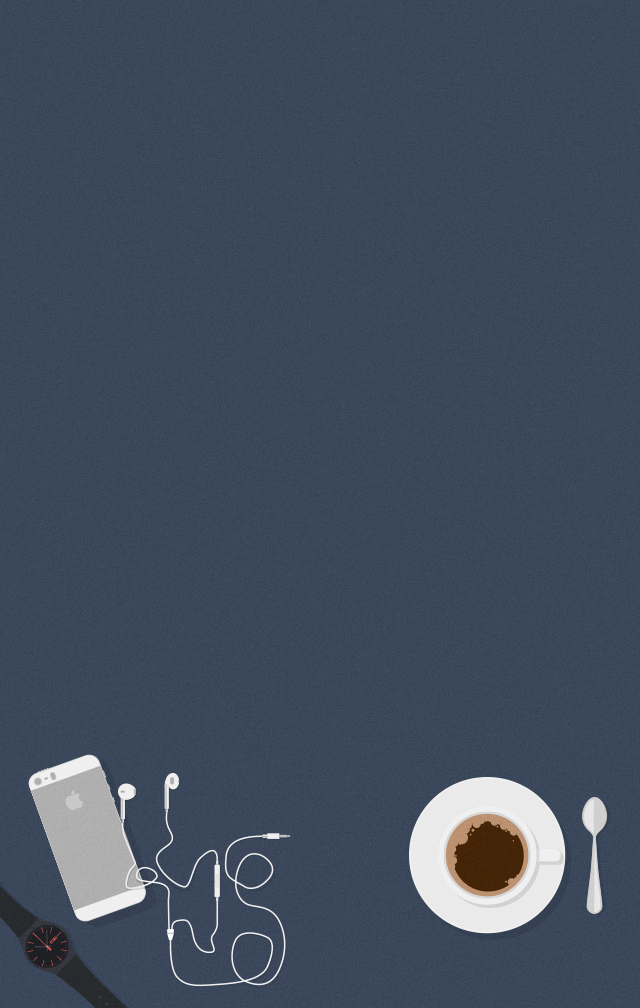
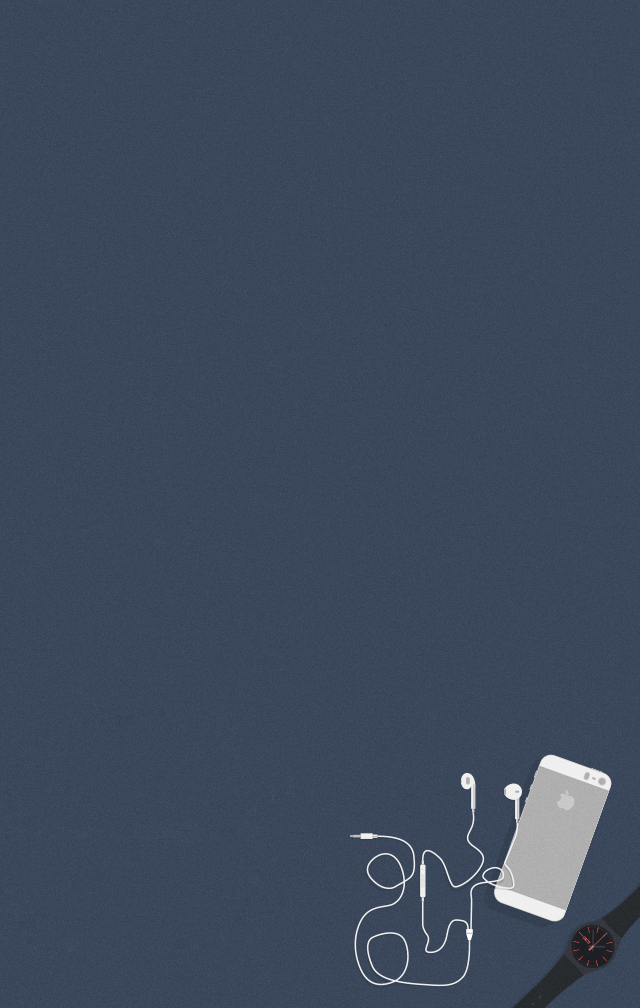
fix by lin.li

diff --git a/hr/index.html b/hr/index.html
@@ -10,9 +10,6 @@
   <link rel="stylesheet" href="../css/reveal.css">
   <link rel="stylesheet" href="../css/theme/black.css" id="theme">
   <link rel="stylesheet" href="css/genee.css" id="theme">
-  <!--[if lt IE 9]>
-    <script src="../lib/js/html5shiv.js"></script>
-  <![endif]-->
 </head>
 
 <body>
@@ -21,7 +18,7 @@
   <div class="slides">
     <section>
 
-      <section data-background="img/computer.png">
+      <section data-background="img/computer.png" style="margin-top:35%;">
         <img src="img/genee.png" width="50%">
         <h1>基理科技</h1>
         <h3>GENEE GROUP</h3>
@@ -29,35 +26,35 @@
 
       <section data-background="img/phone.png">
         <h2>公司简介</h2>
-        <p style="text-align:left">成立于 2007 年，总部位于北方金融中心天津，是国内领先的智能科研管理平台提供商。</p>
-        <p style="text-align:left">在科研管理领域拥有最先进的技术和最完整的产品线，通过多系列<span id="transmark"></span>软件及智能硬件产品满足全球不同高校、科研院所、研发型企业的差异化需求，让全世界用户享受更简单、便捷的科研管理环境。</p>
+        <p style="text-align:left">基理科技成立于2007年，总部位于北方金融中心天津，是国内领先的智能科研管理平台提供商。</p>
+        <p style="text-align:left">在科研管理领域拥有最先进的技术和最完整的产品线，通过多系列软件及智能硬件产品满足全球不同高校、科研院所、研发型企业的差异化需求，让全世界用户享受更简单、便捷的科研管理环境。</p>
       </section>
     
       <section data-background="img/phone.png">
         <h2 style="margin-bottom:1em">我们的产品</h2>
-        <div style="margin-bottom:1em;position:relative">
-          <img src="img/lims.png" width="64px" style="float:left;margin-top:-10px">
+        <div>
+          <img src="img/lims.png" width="54px" style="float:left; margin-top:-3px">
           <div style="margin-left:80px">
             <h3>LIMS</h3>
             <h4>科研实验室ERP</h4>
           </div>
         </div>
-        <div style="margin-bottom:1em;position:relative">
-          <img src="img/cf.png" width="64px" style="float:left;margin-top:-10px">
+        <div>
+          <img src="img/cf.png" width="54px" style="float:left; margin-top:-4px">
           <div style="margin-left:80px">
             <h3>LIMS-CF</h3>
             <h4>大型仪器共享管理</h4>
           </div>
         </div>
-        <div style="margin-bottom:1em;position:relative">
-          <img src="img/billing.png" width="64px" style="float:left;margin-top:-10px">
+        <div>
+          <img src="img/billing.png" width="54px" style="float:left; margin-top:-2px">
           <div style="margin-left:80px">
             <h3>Billing</h3>
             <h4>实验室快捷支付系统</h4>
           </div>
         </div>
-        <div style="margin-bottom:1em;position:relative">
-          <img src="img/mall.png" width="64px" style="float:left;margin-top:-10px">
+        <div>
+          <img src="img/mall.png" width="54px" style="float:left; margin-top:-2px">
           <div style="margin-left:80px">
             <h3>Mall</h3>
             <h4>科研采购平台</h4>
@@ -67,24 +64,30 @@
     
       <section data-background="img/phone.png">
         <h2 style="margin-bottom:1em">我们用到的技术</h2>
+          <p style="text-align:left; margin-top:10px">我们崇尚自管理, 扁平化；<br/>破除依赖, 努力打造完美产品。</p>
           <img src="img/php.png" width="100px" style="float:left; margin-right:10px;">
           <img src="img/nodejs.png" width="100px" style="float:left; margin-right:10px;">
           <img src="img/zeromq.png" width="100px" style="float:left;">
           <img src="img/redis.png" width="100px" style="float:left; margin-right:10px;">
           <img src="img/github.png" width="100px" style="float:left; margin-right:10px;">
           <img src="img/docker.png" width="100px" style="float:left;">
-        <p style="text-align:left">我们崇尚自管理, 扁平化<br/>破除依赖, 努力打造完美产品</p>
       </section>
     
       <section data-background="img/phone.png">
         <h2 style="margin-bottom:1em">我们在寻找“牛人”</h2>
-        <div style="position:relative;height:480px">
+        <ul class="value">
+          <li><h3>Curious</h3> 强烈的求知欲望</li>
+          <li><h3>Reliable</h3> 勇于担当责任</li>
+          <li><h3>Open-minded</h3> 虚心接纳他人意见定</li>
+          <li><h3>Communicative</h3> 良好的沟通能力</li>
+        </ul>
+        <!--<div style="position:relative;height:480px">
           <img src="img/p1.png" class="avatar" style="top:0;left:28%">
           <img src="img/p2.png" class="avatar" style="top:20%;left:0">
           <img src="img/p3.png" class="avatar" style="bottom:30%;left:20%">
           <img src="img/p4.png" class="avatar" style="top:18%;right:0">
           <img src="img/p5.png" class="avatar" style="bottom:34%;right:5%">
-        </div>
+        </div>-->
       </section>
     
       <section data-background="img/notebook.png" >
@@ -92,15 +95,12 @@
           <h3>Web开发工程师</h3>
           <p class="text-muted">我们期望您：</p>
           <ol>
-            <li>热爱编程，掌握前沿编程技术;</li>
             <li>掌握至少两门Web开发相关语言 (PHP/Java/JS优先);</li>
             <li>有Web应用设计, 架构和性能调优的相关经验;</li>
-            <li>有和非开发人员进行沟通协作的能力;</li>
-            <li>理性对待任何技术决定，能够通过量化和客观的数据对不合理问题进行反驳并提出改进方案;</li>
-            <li>充分了解坚持和固执的区别;</li>
+            <li>能够通过量化和客观的数据对不合理问题进行反驳并提出改进方案;</li>
             <li>有持续集成经验者优先;</li>
             <li>有GitHub开发经验者优先;</li>
-            <li>有DevOps相关经验者优先;</li>
+            <li>有DevOps相关经验者优先。</li>
           </ol>
         </div>
       </section>
@@ -110,15 +110,12 @@
           <h3>系统开发工程师</h3>
           <p class="text-muted">我们期望您：</p>
           <ol>
-            <li>热爱编程，掌握前沿编程技术;</li>
             <li>掌握至少两门Web开发相关语言 (C++/Python/JS优先);</li>
             <li>有Linux系统配置, 架构和性能调优的相关经验;</li>
-            <li>有和非开发人员进行沟通协作的能力;</li>
-            <li>理性对待任何技术决定，能够通过量化和客观的数据对不合理问题进行反驳并提出改进方案;</li>
-            <li>充分了解坚持和固执的区别;</li>
+            <li>能够通过量化和客观的数据对不合理问题进行反驳并提出改进方案;</li>
             <li>有持续集成经验者优先;</li>
             <li>有GitHub开发经验者优先;</li>
-            <li>有DevOps相关经验者优先;</li>
+            <li>有DevOps相关经验者优先。</li>
           </ol>
         </div>
       </section>
@@ -136,7 +133,6 @@
           <p class="text-muted">我们期望您：</p>
           <ol>
             <li>理科硕士以上学历，生命科学、化学、药学等实验学科背景优先；</li>
-            <li>极强的沟通与协调能力；</li>
             <li>热爱互联网产品，具有互联网产品开发经验优先；</li>
             <li>对互联网技术有深入了解。</li>
           </ol>
@@ -150,7 +146,6 @@
             <li>具备财务、进销存、物流、CRM、ERP等系统开发或实施经验；</li>
             <li>熟悉Windows、Linux、Mac 等操作系统的安装部署；</li>
             <li>具备服务器和网络软硬件配置能力；</li>
-            <li>具备比较全面的技术专业知识，熟悉当前IT行业的技术发展方向；</li>
             <li>有产品、项目的技术支持，售后服务及团队管理经验；</li>
             <li>具有较强的团队凝聚力，领导能力及协调能力。</li>
           </ol>
@@ -162,11 +157,10 @@
           <h3>管理培训生</h3>
           <p style="margin-bottom:5px;">您需要参加公司统一培训，然后在相关部门进行轮岗训练，参与该岗位的实际工作。</p>
           <ol>
-            <li>学习能力强，勤奋踏实，吃苦耐劳，具有高度的责任心和执行能力；</li>
-            <li>良好的沟通和表达能力，具有良好的团队合作精神；</li>
-            <li>较强应变能力，自信心强，能承受工作压力，自我推动力强。</li>
             <li>优秀应届毕业生优先考虑；</li>
             <li>计算机类、生物类、销售类专业优先选择；</li>
+            <li>较强应变能力，自信心强，能承受工作压力，自我推动力强；</li>
+            <li>学习能力强，勤奋踏实，吃苦耐劳，具有高度的责任心和执行能力。</li>
           </ol>
         </div>
       </section>
@@ -174,7 +168,7 @@
       <section data-background="img/camera.png" >
         <h2 style="margin-bottom:1em">您将在这里工作</h2>
         <div class="wall">
-          <img src="img/workhere1.jpg">
+          <img style="width:340px;" src="img/workhere1.jpg">
           <img src="img/workhere2.jpg">
           <img src="img/workhere3.jpg"> 
           <img src="img/workhere4.jpg">
@@ -186,14 +180,14 @@
       <section data-background="img/camera.png">
         <h2 style="margin-bottom:1em">您未来的伙伴</h2>
         <div class="wall">
-          <img src="img/colleague1.jpg">
+          <img style="width:320px;" src="img/colleague1.jpg">
           <img src="img/colleague2.jpg">
           <img src="img/colleague3.jpg">
           <img src="img/colleague4.jpg">
         </div>
       </section>
 
-      <section data-background="img/camera.png">
+      <section data-background="img/coffee.png">
         <h2>公司福利</h2>
         <ul class="benefit-tags">
           <li class="red-tag">极具竞争力的薪酬</li>
@@ -209,10 +203,10 @@
         </ul>
       </section>
       
-      <section data-background="img/camera.png">
+      <section data-background="img/coffee.png" style="margin-top:40%;">
         <h2>联系方式</h2>
         <ul>
-          <li>电话: <a href="callto:022-83719730">022-83719730</a></li>
+          <li>电话: <a href="callto:4006943633">400-694-3633</a></li>
           <li>邮箱: <a href="hr@geneegroup.com">hr@geneegroup.com</a></li>
           <li>地址: <span>天津市南开区白堤路268号农科大厦4层</span></li>
         </ul>
@@ -235,7 +229,7 @@ Reveal.initialize({
   controls: false,
   progress: false,
   history: false,
-  center: true,
+  center: false,
   touch: true,
   mouseWheel: true,
   

diff --git a/hr/css/genee.css b/hr/css/genee.css
@@ -15,7 +15,8 @@ body {
 ::selection {
   color: #fff;
   background: #bee4fd;
-  text-shadow: none; }
+  text-shadow: none;
+}
 
 .reveal .slides > section, .reveal .slides > section > section {
   line-height: 1.3;
@@ -49,6 +50,7 @@ body {
   font-size: 1.6em; 
   border-bottom:2px solid #bbb;
   padding-bottom:10px;
+  padding-top:20px;
 }
 
 .reveal h3 {
@@ -58,8 +60,8 @@ body {
 }
 
 .reveal h4 {
-  font-size: 1em; 
-  letter-spacing:1px;
+  font-size: .8em; 
+  letter-spacing:3px;
   font-weight:normal;
 }
 
@@ -70,9 +72,10 @@ body {
  * OTHER
  *********************************************/
 .reveal p {
+  color:#eff6fc;
   margin: 20px 0;
   font-size: .8em; 
-  line-height: 1.3; }
+  line-height: 1.4em; }
 
 /* Ensure certain elements are never larger than the slide itself */
 .reveal img, .reveal video, .reveal iframe {
@@ -280,9 +283,16 @@ body {
   position:absolute;
 }
 
-.reveal .position {
-	padding-left:26px;
+.reveal .value li{
+	margin-bottom: .8em;
+	letter-spacing:3px
 }
+
+.reveal .position {
+	width:266px;
+	padding-left:24px;
+	margin-top:90px;
+	}
 
 .reveal .position p {
     color: #999;
@@ -301,10 +311,14 @@ body {
 	margin-bottom:12px;
 }
 
+.reveal .wall{
+	margin-top:-30px;
+}
+
 .reveal .wall img {
-	width:160px;
-    margin: 0;
+	width:95px;
     padding: 0;
+	margin: 10px 5px 0;
 	float:left;
     display: block;
 }
